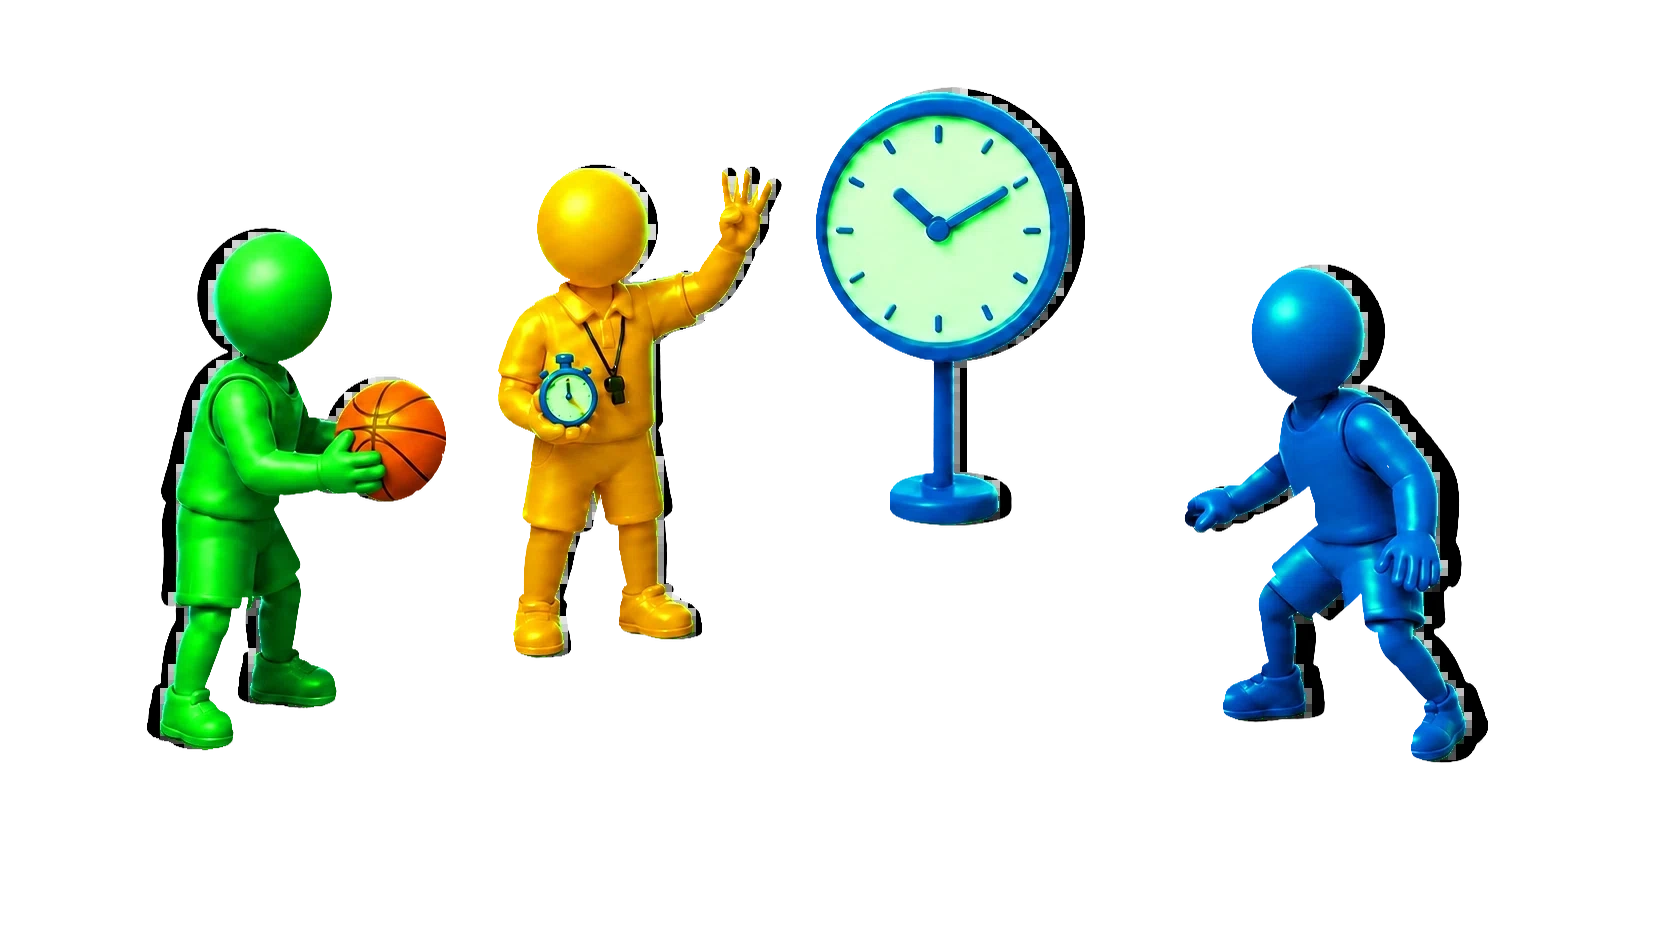
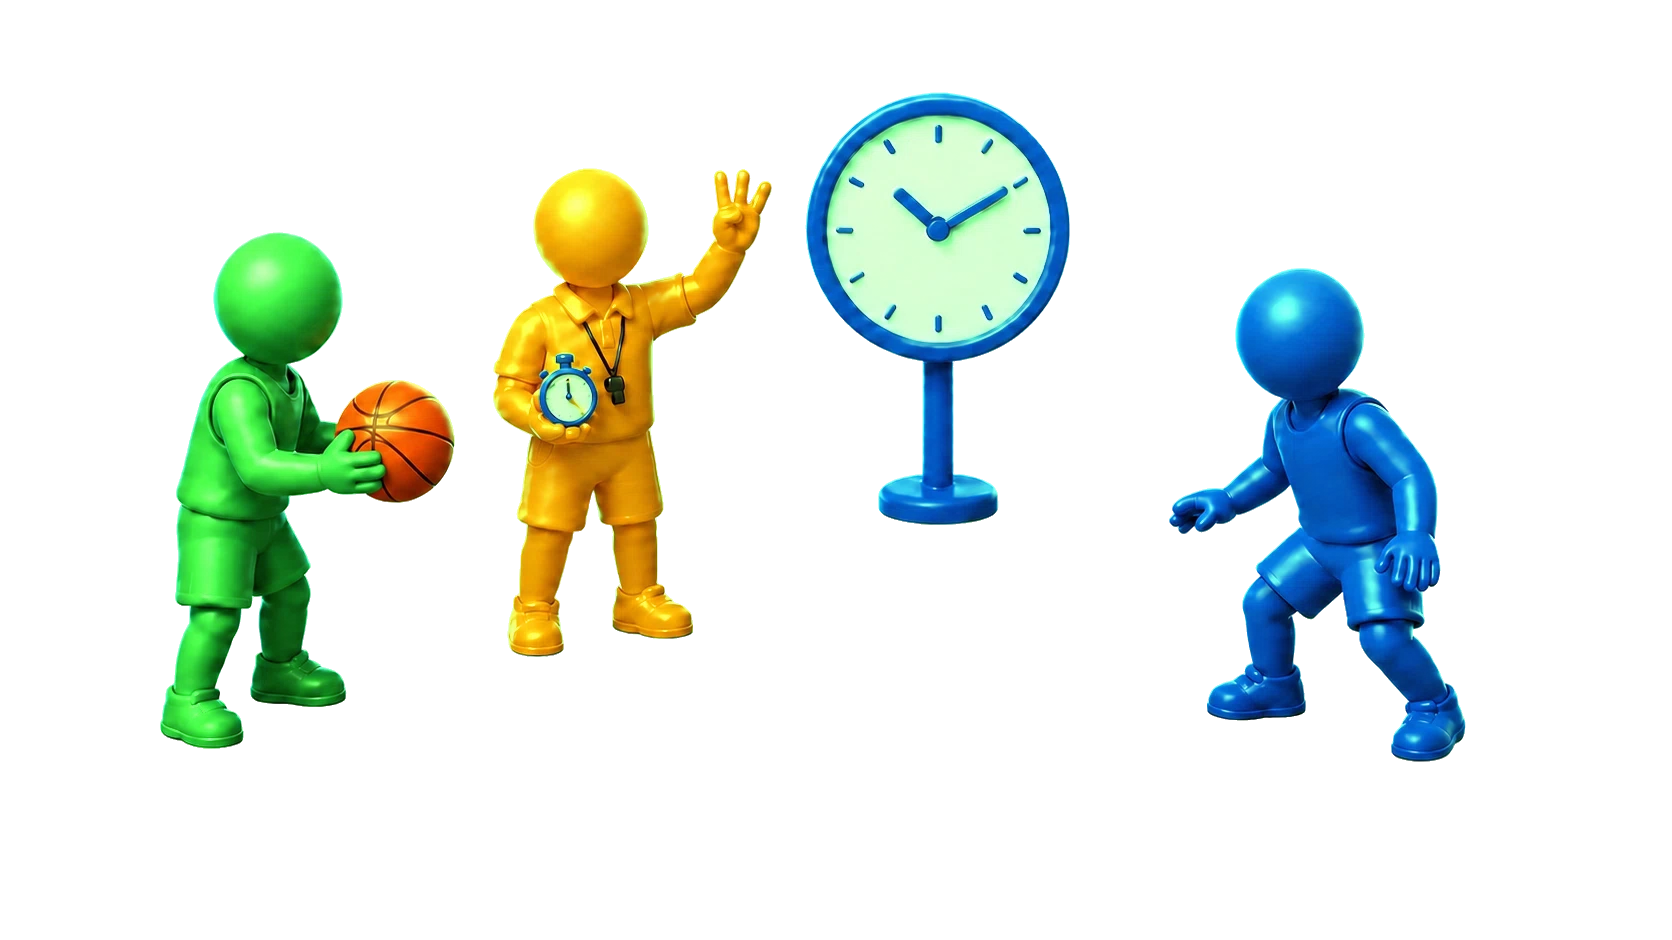
fix: restore rulebook 3d illustrations

Changed region(s): [[0.0622, 0.0926, 0.6531, 0.8021], [0.6842, 0.2777, 0.9019, 0.833], [0.4043, 0.6479, 0.4354, 0.6787]]

diff --git a/src/pages/RefereeRulebook.jsx b/src/pages/RefereeRulebook.jsx
@@ -12,7 +12,7 @@ import {
   REFEREE_STAT_GUIDELINES,
 } from "../lib/refereeRulebook.js";
 
-const RULEBOOK_ASSET_VERSION = "20260729-1";
+const RULEBOOK_ASSET_VERSION = "20260729-2";
 const RULEBOOK_SOURCES = [
   {
     label: "FIBA 경기규칙 2024",

diff --git a/docs/design-system.md b/docs/design-system.md
@@ -2259,6 +2259,8 @@ UI 수정 전:
 3. 농구 골대 삽화의 백보드는 흰색 판으로 표시한다. 농구공은 끊기거나 겹친 선 없이 표준 곡선형 8패널 심을 표시한다.
 4. 룰북 dark/light WebP를 함께 갱신하고, 배포 이미지는 `assetUrl()`을 거쳐 R2에서 제공한다.
 5. 배경 투명화는 전경 인물·공·아이콘의 알파, 채도, 명암을 낮추지 않는다. 전경은 완전 불투명을 기준으로 유지하고 가장자리 안티앨리어싱에만 부분 알파를 사용한다.
+6. 전경 불투명도 보정은 알파를 이진 임계값으로 잘라내지 않는다. 원본의 반투명 안티앨리어싱 가장자리를 보존하고, 검은 계단·체커보드·흰 테두리가 생기면 배포하지 않는다.
+7. 룰북에 사용하는 삽화는 입체감이 분명한 3D 클레이 스타일을 표준으로 한다. 2D 플랫 벡터, 실사 사진, 서로 다른 렌더링 스타일을 룰북 삽화 세트에 섞지 않는다.
 
 ## 현재 유효: MMR 안내 문구
 
